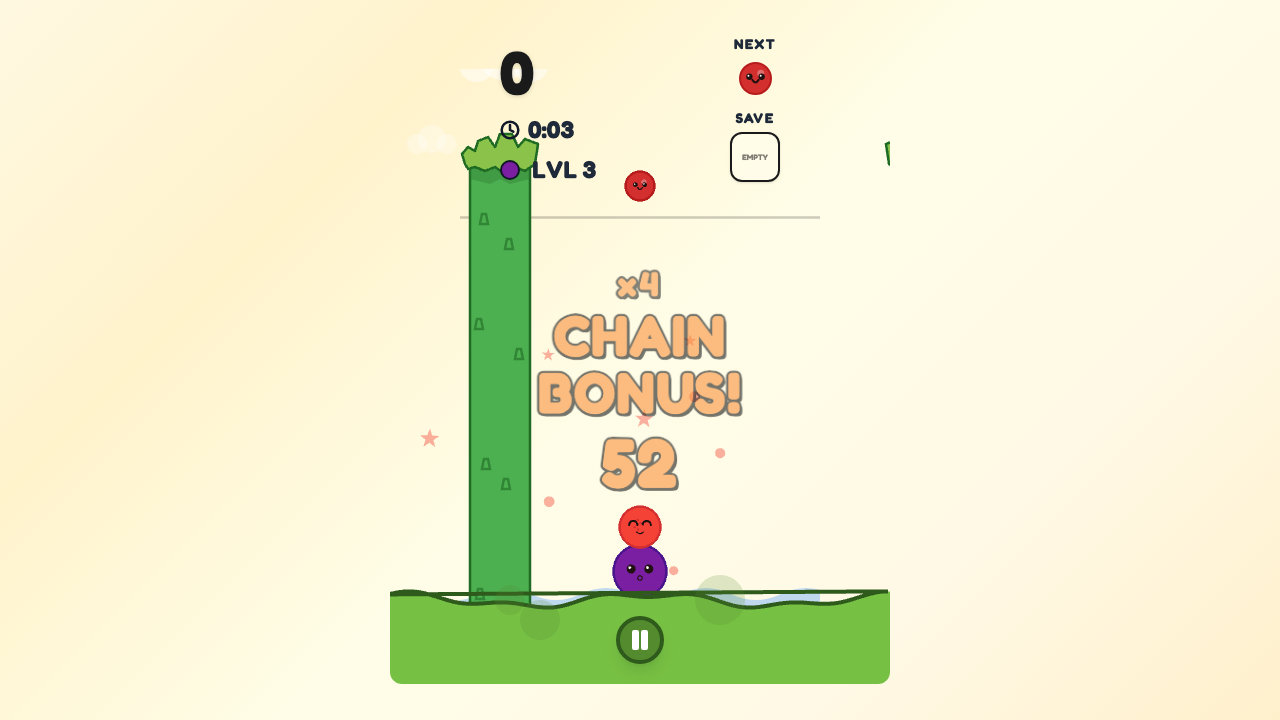
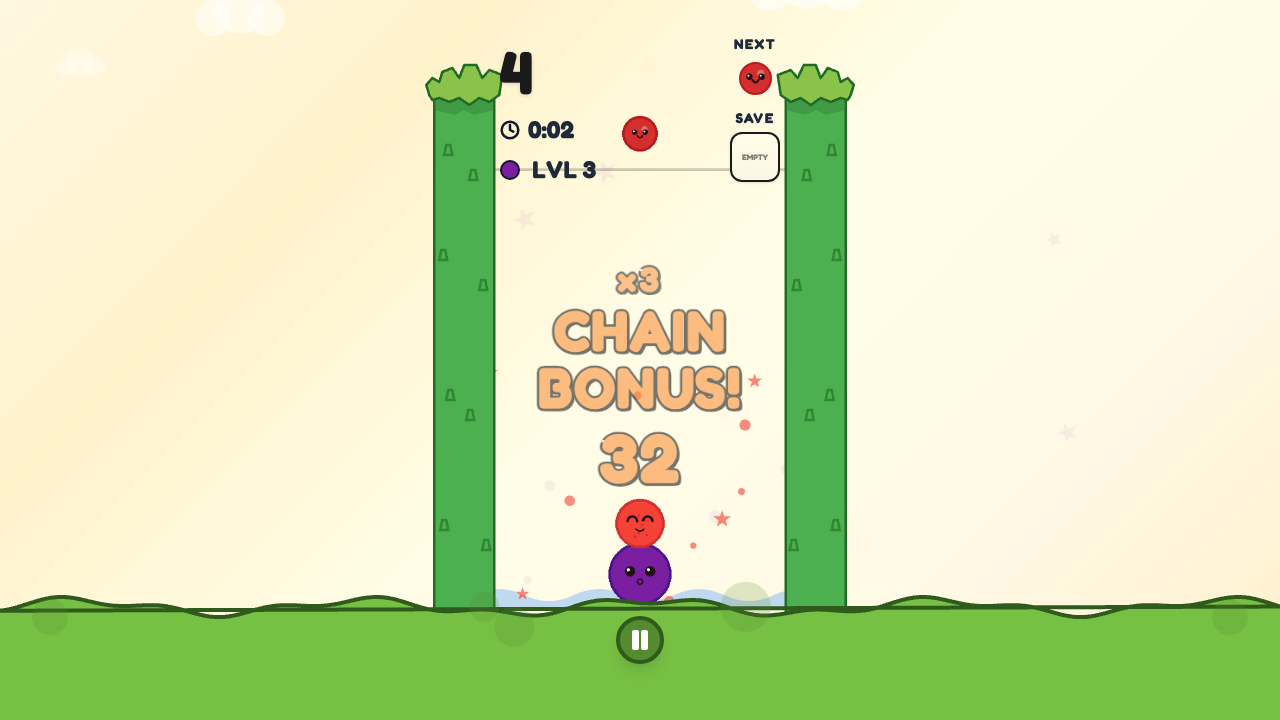
fix: Position walls at game area edges, fix cloud zone to start from y=0, fix wall mirroring

Changed region(s): [[0.0, 0.0611, 1.0, 1.0], [0.1562, 0.0, 0.2188, 0.0306]]

diff --git a/services/renderers/WallRenderer.ts b/services/renderers/WallRenderer.ts
@@ -3,6 +3,7 @@ import * as PIXI from 'pixi.js';
 /**
  * Renders the grass walls in Pixi screen-space.
  * Replaces WallCanvas.tsx — draws left and right grass walls at screen coordinates.
+ * Walls are positioned at the left and right edges of the game area, overlapping slightly.
  */
 export class WallRenderer {
     private leftWall: PIXI.Container;
@@ -19,59 +20,67 @@ export class WallRenderer {
 
     /**
      * Draw both grass walls in screen coordinates.
+     * @param gameAreaWidth Game area width in CSS pixels
+     * @param gameAreaHeight Game area height in CSS pixels
+     * @param containerTop Container Y position on screen (CSS pixels)
+     * @param containerLeft Container X position on screen (CSS pixels)
+     * @param screenHeight Viewport height in CSS pixels
      */
-    draw(gameAreaWidth: number, _gameAreaHeight: number, containerTop: number, containerLeft: number, screenHeight: number): void {
+    draw(gameAreaWidth: number, gameAreaHeight: number, containerTop: number, containerLeft: number, screenHeight: number): void {
         this.leftWall.removeChildren();
         this.rightWall.removeChildren();
 
         const wallWidth = 80;
-        const wallHeight = screenHeight - 60;
         const topMargin = 60;
+        const wallHeight = screenHeight - topMargin;
 
-        const drawWallShape = (): PIXI.Graphics => {
-            const g = new PIXI.Graphics();
-
-            // Main Wall Body
-            g.poly([10, 35, 10, wallHeight - 10, 10, wallHeight, 60, wallHeight, 70, wallHeight - 10, 70, 35]);
-            g.fill({ color: 0x4CAF50 });
-            g.stroke({ width: 2.5, color: 0x1f6b23, join: 'round' });
-
-            // Shadow under Grass Cap
-            g.poly([10, 35, 70, 35, 70, 50, 50, 55, 40, 50, 30, 55, 10, 50]);
-            g.fill({ color: 0x2E7D32, alpha: 0.4 });
-
-            // Grass Cap
-            g.poly([5, 35, 2, 25, 8, 18, 15, 22, 18, 12, 28, 8, 35, 18, 40, 5, 52, 5, 58, 18, 65, 10, 78, 15, 75, 35, 65, 42, 55, 38, 45, 45, 35, 38, 25, 42, 15, 38, 8, 40]);
-            g.fill({ color: 0x8BC34A });
-            g.stroke({ width: 2.5, color: 0x1f6b23, join: 'round' });
-
-            // Decorative Tufts
-            const tufts = [
-                { x: 20, y: 95 }, { x: 15, y: 200 }, { x: 22, y: 340 }, { x: 16, y: 470 },
-                { x: 45, y: 120 }, { x: 55, y: 230 }, { x: 42, y: 360 }, { x: 58, y: 490 },
-            ];
-            g.stroke({ width: 2.5, color: 0x1f6b23, cap: 'round', alpha: 0.6 });
-            tufts.forEach(tuft => {
-                if (tuft.y < wallHeight) {
-                    g.poly([tuft.x, tuft.y, tuft.x + 2, tuft.y - 10, tuft.x + 6, tuft.y - 10, tuft.x + 8, tuft.y]);
-                    g.stroke();
-                }
-            });
-
-            return g;
-        };
-
-        // Left wall
-        this.leftWall.x = containerLeft;
+        // Left wall: positioned at containerLeft, overlapping the game area edge by ~10px
+        this.leftWall.x = containerLeft - 10;
         this.leftWall.y = topMargin;
-        const leftGraphics = drawWallShape();
-        this.leftWall.addChild(leftGraphics);
+        this.leftWall.addChild(this.drawWallShape(wallHeight, 'left'));
 
-        // Right wall (mirrored: flat side faces game area)
-        this.rightWall.x = containerLeft + gameAreaWidth;
+        // Right wall: positioned at containerLeft + gameAreaWidth - wallWidth + 10, overlapping the game area edge
+        this.rightWall.x = containerLeft + gameAreaWidth - wallWidth + 10;
         this.rightWall.y = topMargin;
-        this.rightWall.scale.x = -1;
-        const rightGraphics = drawWallShape();
-        this.rightWall.addChild(rightGraphics);
+        this.rightWall.addChild(this.drawWallShape(wallHeight, 'right'));
+    }
+
+    private drawWallShape(height: number, side: 'left' | 'right'): PIXI.Graphics {
+        const g = new PIXI.Graphics();
+
+        // Main Wall Body
+        g.poly([10, 35, 10, height - 10, 10, height, 60, height, 70, height - 10, 70, 35]);
+        g.fill({ color: 0x4CAF50 });
+        g.stroke({ width: 2.5, color: 0x1f6b23, join: 'round' });
+
+        // Shadow under Grass Cap
+        g.poly([10, 35, 70, 35, 70, 50, 50, 55, 40, 50, 30, 55, 10, 50]);
+        g.fill({ color: 0x2E7D32, alpha: 0.4 });
+
+        // Grass Cap
+        g.poly([5, 35, 2, 25, 8, 18, 15, 22, 18, 12, 28, 8, 35, 18, 40, 5, 52, 5, 58, 18, 65, 10, 78, 15, 75, 35, 65, 42, 55, 38, 45, 45, 35, 38, 25, 42, 15, 38, 8, 40]);
+        g.fill({ color: 0x8BC34A });
+        g.stroke({ width: 2.5, color: 0x1f6b23, join: 'round' });
+
+        // Decorative Tufts
+        const tufts = [
+            { x: 20, y: 95 }, { x: 15, y: 200 }, { x: 22, y: 340 }, { x: 16, y: 470 },
+            { x: 45, y: 120 }, { x: 55, y: 230 }, { x: 42, y: 360 }, { x: 58, y: 490 },
+        ];
+        g.stroke({ width: 2.5, color: 0x1f6b23, cap: 'round', alpha: 0.6 });
+        tufts.forEach(tuft => {
+            if (tuft.y < height) {
+                g.poly([tuft.x, tuft.y, tuft.x + 2, tuft.y - 10, tuft.x + 6, tuft.y - 10, tuft.x + 8, tuft.y]);
+                g.stroke();
+            }
+        });
+
+        // Mirror right wall so flat side faces game area
+        if (side === 'right') {
+            g.scale.set(-1, 1);
+            g.x = 80; // Adjust for the flip
+        }
+
+        return g;
     }
 }

diff --git a/services/renderers/CloudRenderer.ts b/services/renderers/CloudRenderer.ts
@@ -3,7 +3,7 @@ import * as PIXI from 'pixi.js';
 /**
  * Renders animated clouds in Pixi screen-space.
  * Replaces CloudsCanvas.tsx — draws clouds using Pixi ticker.
- * Lives on the Pixi stage (screen coordinates), not the scaled game container.
+ * Lives on the Pixi stage (screen coordinates), starting from y=0.
  */
 interface CloudData {
     sprite: PIXI.Graphics;
@@ -16,7 +16,6 @@ interface CloudData {
 export class CloudRenderer {
     private container: PIXI.Container;
     private clouds: CloudData[] = [];
-    private zoneHeight: number = 180;
     private startTime: number = 0;
 
     constructor(stage: PIXI.Container) {
@@ -65,10 +64,11 @@ export class CloudRenderer {
 
     /**
      * Update cloud positions. Called from the Pixi ticker.
+     * The cloud zone is the band above the game area: [0, containerTop]
      * @param screenWidth Screen width in CSS pixels
-     * @param containerScreenY Container Y position on screen (CSS pixels)
+     * @param containerTop Container Y position on screen (CSS pixels) - this is the bottom of the cloud zone
      */
-    update(screenWidth: number, containerScreenY: number): void {
+    update(screenWidth: number, containerTop: number): void {
         if (this.startTime === 0) this.startTime = performance.now();
         const elapsed = (performance.now() - this.startTime) / 1000;
 
@@ -76,9 +76,9 @@ export class CloudRenderer {
         const totalDistance = 160 * vw;
         const startX = -50 * vw;
 
-        // Zone: above the game container
-        const zoneTop = containerScreenY - 140;
-        const zoneH = this.zoneHeight;
+        // Cloud zone: from y=0 down to containerTop
+        // yPercent 0 = top of zone (y=0), yPercent 1 = bottom of zone (y=containerTop)
+        const zoneBottom = containerTop;
 
         for (const cloud of this.clouds) {
             const cycleTime = cloud.duration;
@@ -88,7 +88,8 @@ export class CloudRenderer {
             if (progress < 0) progress += 1;
 
             const currentX = startX + (totalDistance * progress);
-            const canvasY = zoneTop + (cloud.yPercent * zoneH);
+            // Cloud y ranges from 0 (top) to containerTop (bottom of zone)
+            const canvasY = cloud.yPercent * zoneBottom;
 
             cloud.sprite.x = currentX;
             cloud.sprite.y = canvasY;

diff --git a/components/GameArea.tsx b/components/GameArea.tsx
@@ -8,16 +8,11 @@ interface GameAreaProps {
 export const GameArea: React.FC<GameAreaProps> = React.memo(({ children, canvasRef }) => {
     return (
         <div className="relative w-full aspect-[4/5] bg-transparent overflow-visible">
-            {/* The Actual Game Canvas */}
+            {/* Full-viewport canvas for Pixi rendering */}
             <canvas
                 ref={canvasRef}
-                className="absolute touch-none cursor-grab active:cursor-grabbing z-10 block"
-                style={{
-                    width: '140%',
-                    height: '140%',
-                    top: '-20%',
-                    left: '-20%'
-                }}
+                className="fixed inset-0 touch-none cursor-grab active:cursor-grabbing z-0 block"
+                style={{ width: '100vw', height: '100vh' }}
             />
 
             {/* Overlay Elements */}

diff --git a/services/GameEngine.ts b/services/GameEngine.ts
@@ -478,7 +478,7 @@ export class GameEngine {
             this.groundRenderer.draw(actualW, actualH, this._gameAreaWidth, this._gameAreaHeight, yOffset, xOffset);
         }
         if (this.wallRenderer) {
-            this.wallRenderer.draw(actualW, actualH, yOffset, xOffset, actualH);
+            this.wallRenderer.draw(this._gameAreaWidth, this._gameAreaHeight, yOffset, xOffset, actualH);
         }
     }
 
